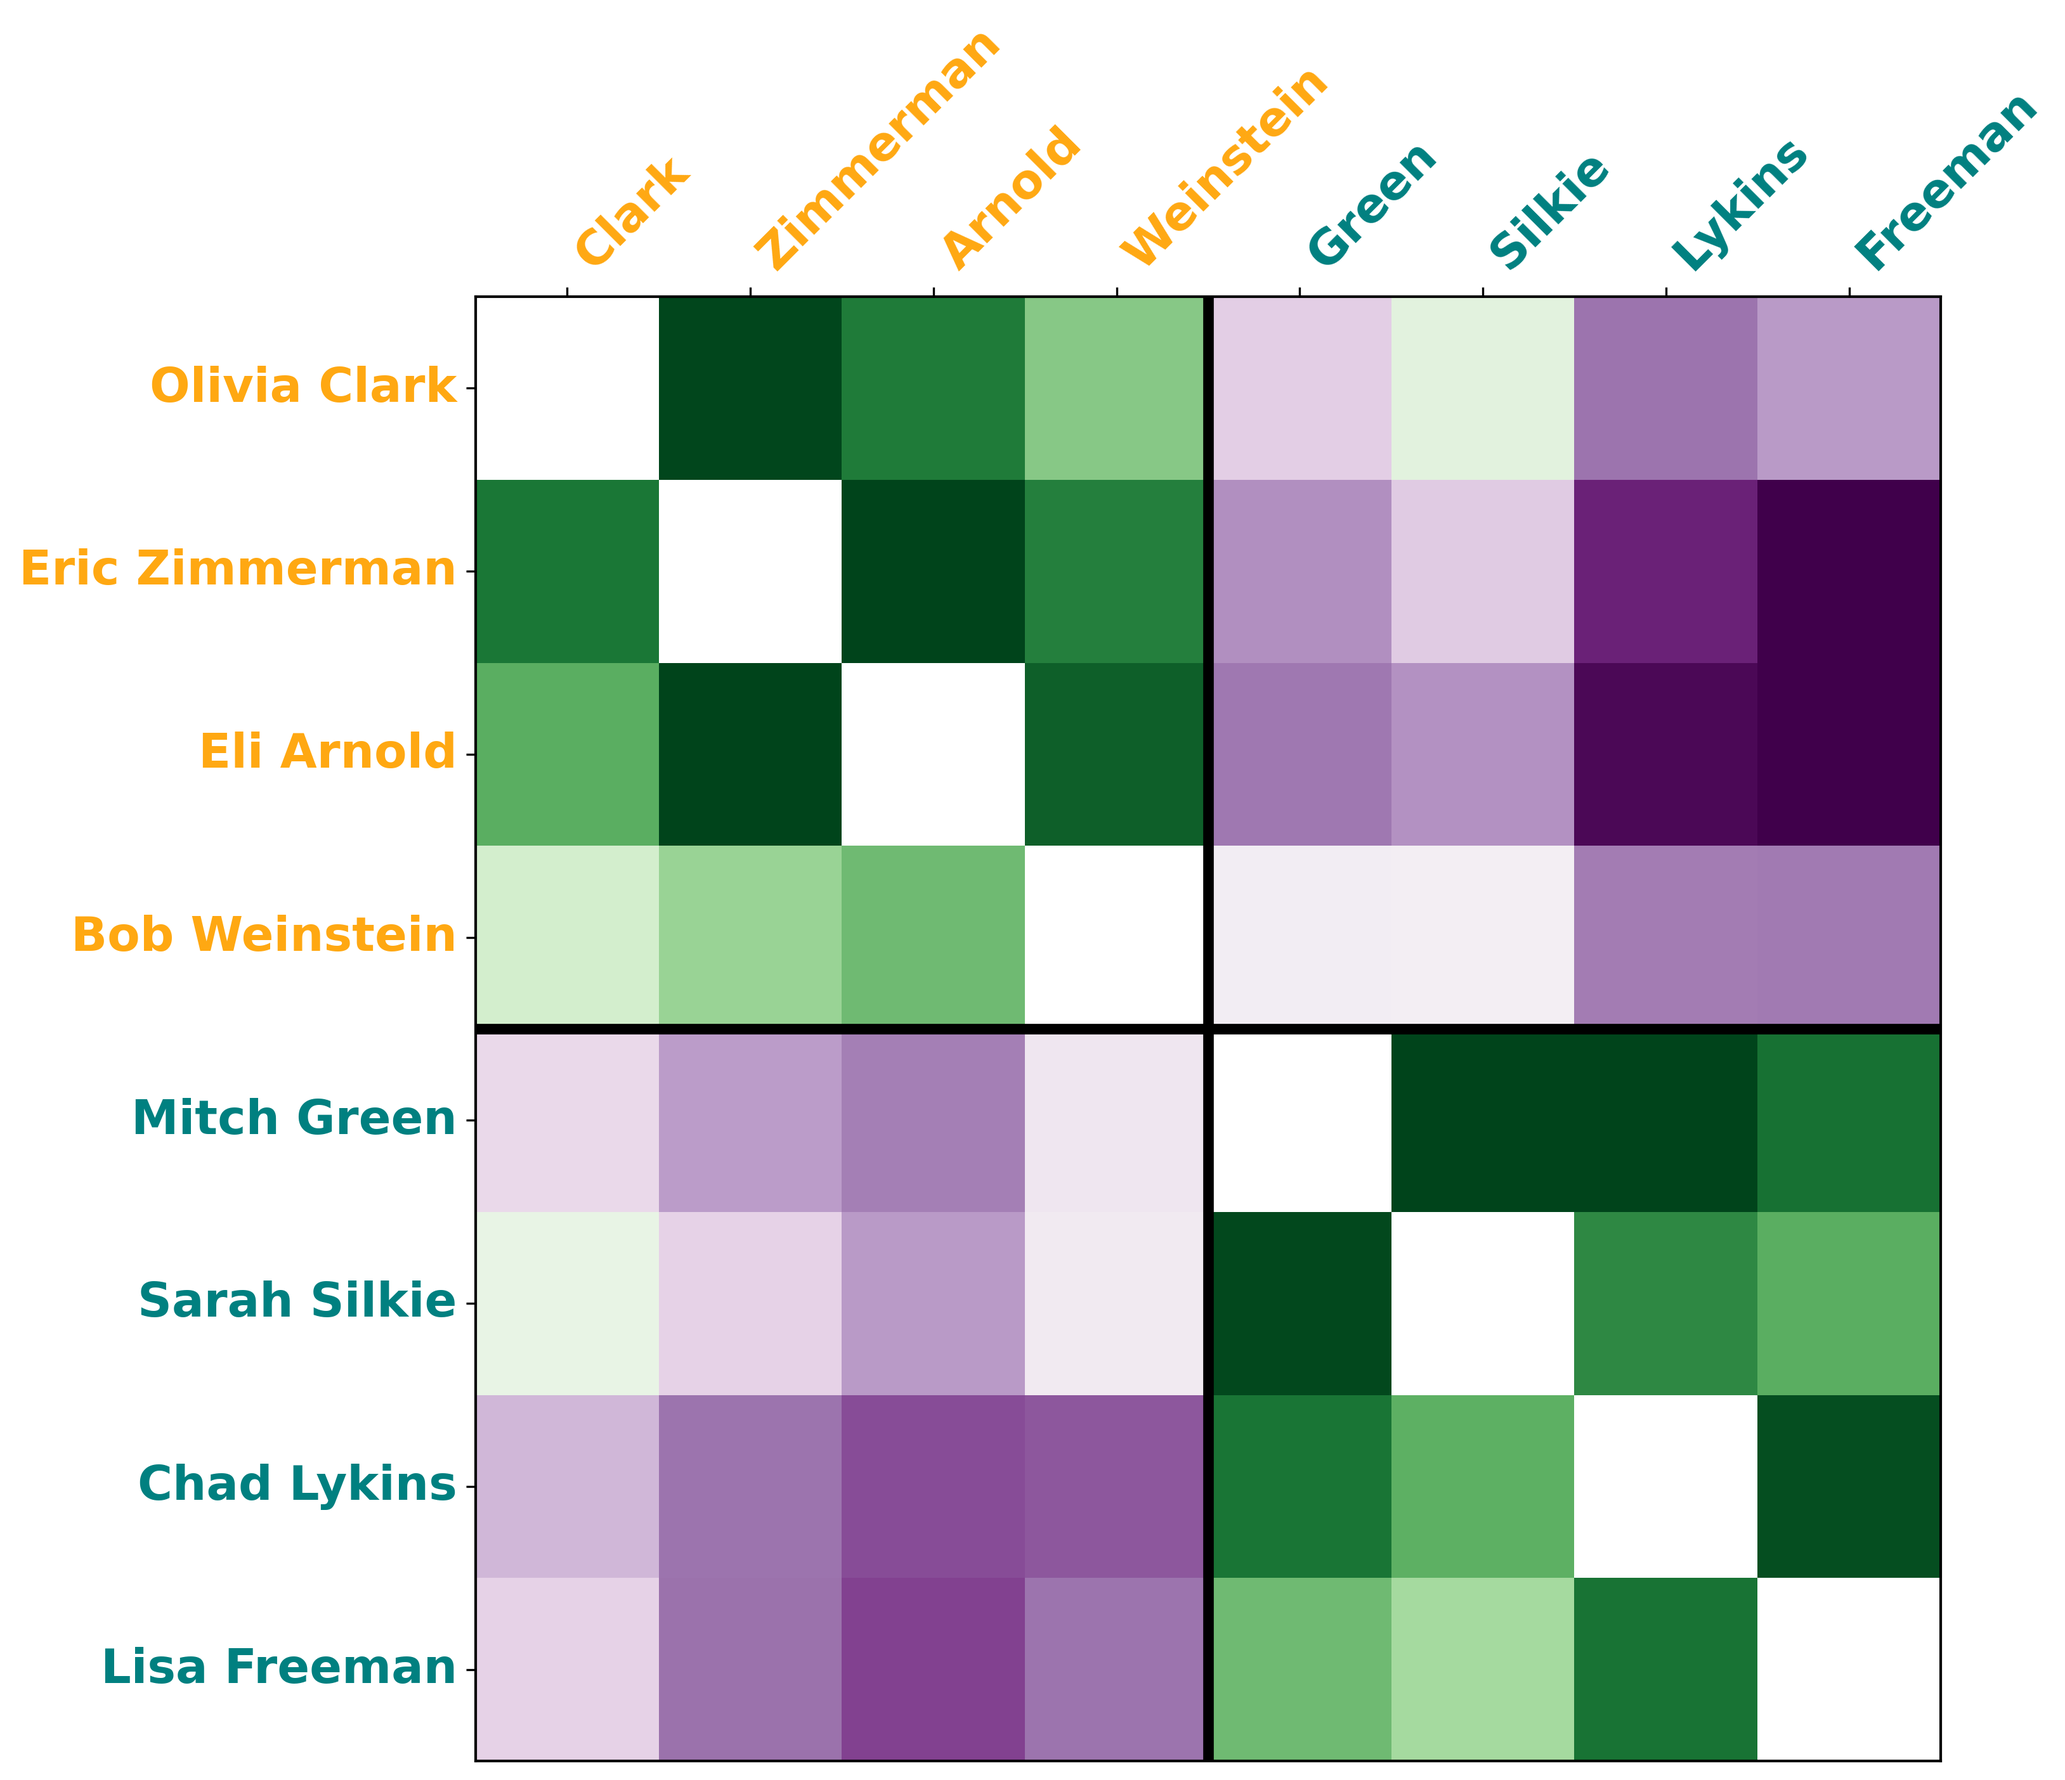
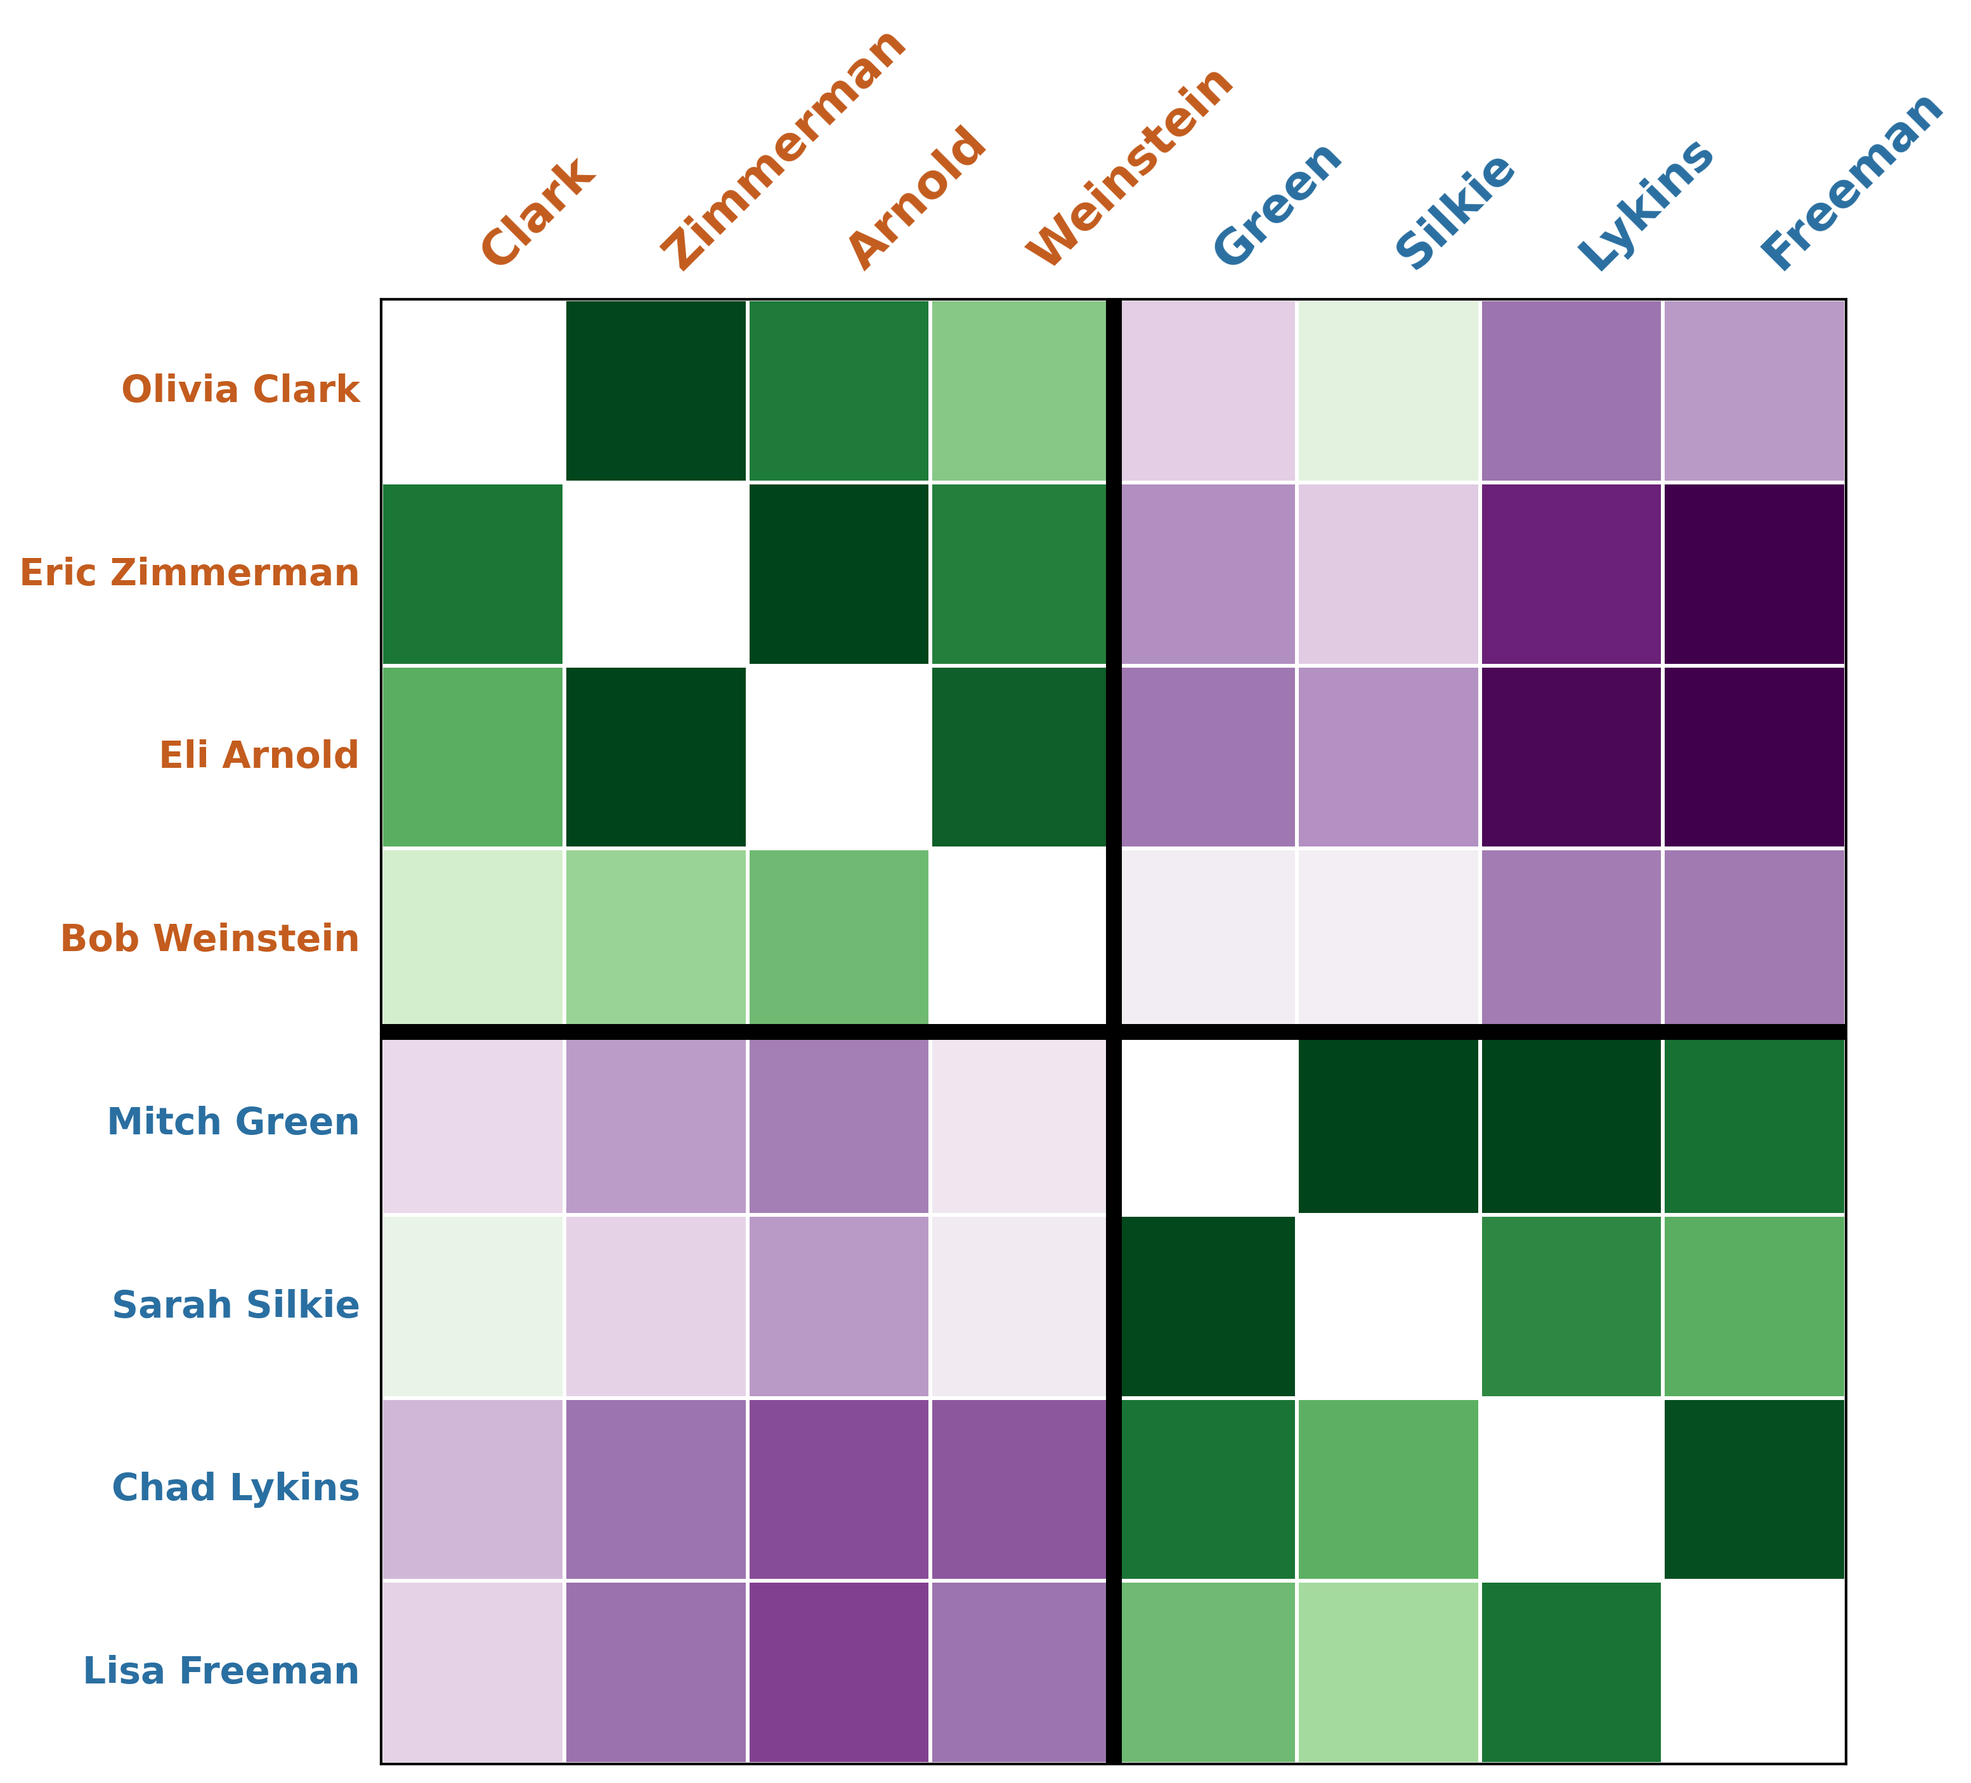
update matrix plotting code

diff --git a/pipelines/portland/plots/plot_boost_matrix.py b/pipelines/portland/plots/plot_boost_matrix.py
@@ -42,8 +42,12 @@ FOCUS_CANDIDATES = {
 }
 
 
+FONTSIZES = {"D1": (14, 18), "D2": (14, 18), "D3": (14, 18), "D4": (14, 18)}
+
+
 def plot_boost(
     slates: Sequence[Sequence[str]],
+    district: str,
     profile: RankProfile | None = None,
     matrix: NDArray | None = None,
     limit: float = 0.21,
@@ -95,8 +99,26 @@ def plot_boost(
 
     assert matrix is not None, "Matrix should be defined at this point"
 
+    def first_initial_last(name: str) -> str:
+        """Convert a candidate name to a first-initial-last format.
+
+        Args:
+            name (str): Candidate name in "First Last" format.
+
+        Returns:
+            str: Candidate name in "F. Last" format.
+        """
+        parts = name.split()
+        if len(parts) < 2:
+            return name
+        first_initial = parts[0][0] + "."
+        last_name = " ".join(parts[1:])
+        return f"{first_initial} {last_name}"
+
+    # candidates = list(map(first_initial_last, candidates))
+
     fig, ax = plt.subplots(figsize=(10, 10))
-    sns.heatmap(
+    ax = sns.heatmap(
         matrix,
         ax=ax,
         cmap="PRGn",
@@ -105,10 +127,11 @@ def plot_boost(
         center=0,
         cbar=False,
         square=True,
-        linewidths=0,
+        linewidths=1,
         xticklabels=[" ".join(candidate.split()[1:]) for candidate in candidates],
         yticklabels=candidates,
     )
+    ax.tick_params(length=0, pad=8)
     ax.set_facecolor("white")
     ax.xaxis.set_ticks_position("top")
 
@@ -116,14 +139,36 @@ def plot_boost(
         spine.set_visible(True)
         spine.set_linewidth(1)
 
-    ax.axvline(len(slates[0]), color="black", linewidth=4)
-    ax.axhline(len(slates[0]), color="black", linewidth=4)
+    separator_color = "black"
+    sep_width = 6
+    ax.axvline(len(slates[0]), color=separator_color, linewidth=sep_width)
+    ax.axhline(len(slates[0]), color=separator_color, linewidth=sep_width)
 
-    for labels in (ax.get_xticklabels(), ax.get_yticklabels()):
-        for index, label in enumerate(labels):
-            label.set_color("#FFA812" if index < len(slates[0]) else "#008080")
-            label.set_fontweight("bold")
-            label.set_fontsize(18)
+    # slate_1_color = "#FFA812"
+    # slate_2_color = "#008080"
+
+    slate_1_color = "#CE6C47"
+    slate_2_color = "#145EB8"
+
+    slate_1_color = "#b35c1e"
+    slate_1_color = "#c35c1e"
+    slate_2_color = "#2A6FA1"
+
+    # for labels in (ax.get_xticklabels(), ax.get_yticklabels()):
+    #     for index, label in enumerate(labels):
+    #         label.set_color("#FFA812" if index < len(slates[0]) else "#008080")
+    #         label.set_fontweight("bold")
+    #         label.set_fontsize(18)
+
+    for index, label in enumerate(ax.get_yticklabels()):
+        label.set_color(slate_1_color if index < len(slates[0]) else slate_2_color)
+        label.set_fontweight("bold")
+        label.set_fontsize(14)
+
+    for index, label in enumerate(ax.get_xticklabels()):
+        label.set_color(slate_1_color if index < len(slates[0]) else slate_2_color)
+        label.set_fontweight("bold")
+        label.set_fontsize(18)
 
     for label in ax.get_xticklabels():
         label.set_rotation(45)
@@ -152,8 +197,13 @@ def plot_colorbar(limit: float = 0.21) -> Figure:
         plt.cm.ScalarMappable(norm=TwoSlopeNorm(vmin=-limit, vcenter=0, vmax=limit), cmap="PRGn"),
         cax=ax,
     )
-    ticks = np.arange(-0.2, 0.25, 0.05) if limit == 0.21 else np.linspace(-limit, limit, 9)
-    bar.set_ticks(ticks.tolist(), labels=[f"{tick:.2f}" for tick in ticks], fontsize=18)
+    ticks = np.arange(-0.2, 0.25, 0.10) if limit == 0.21 else np.linspace(-limit, limit, 9)
+    bar.set_ticks(
+        ticks.tolist(),
+        # Ternary to fix the negative sign on 0
+        labels=[f"{0:.1f}" if tick == 0 else f"{tick:.1f}" for tick in ticks],
+        fontsize=18,
+    )
 
     return fig
 
@@ -187,13 +237,16 @@ def main() -> None:
         if matrix_savepath.exists():
             print(f"Loading cached boost matrix for {district} from {matrix_savepath}")
             matrix = np.load(matrix_savepath)
-            fig, _ = plot_boost(FOCUS_CANDIDATES[district], matrix=matrix, limit=args.limit)
+            fig, _ = plot_boost(
+                FOCUS_CANDIDATES[district], district, matrix=matrix, limit=args.limit
+            )
         else:
             profile = cast(
                 RankProfile, RankProfile.from_csv(data / f"Portland_{district}_cleaned_votekit.csv")
             )
             fig, _ = plot_boost(
                 FOCUS_CANDIDATES[district],
+                district,
                 profile=profile,
                 limit=args.limit,
                 matrix_savepath=matrix_savepath,
